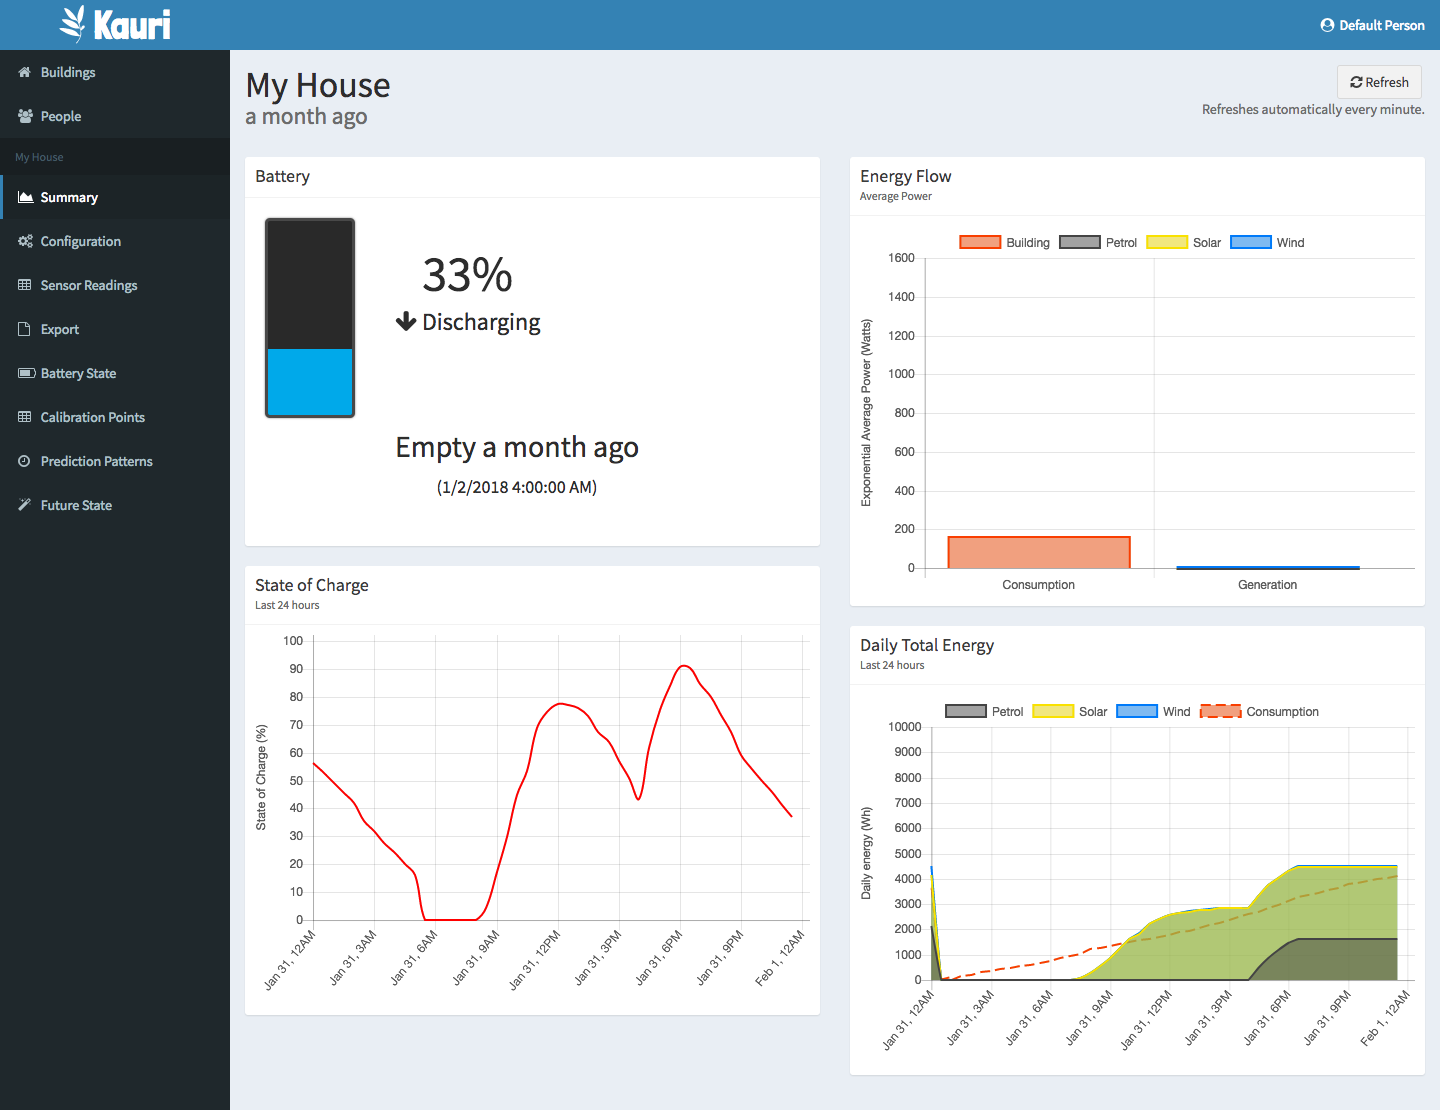
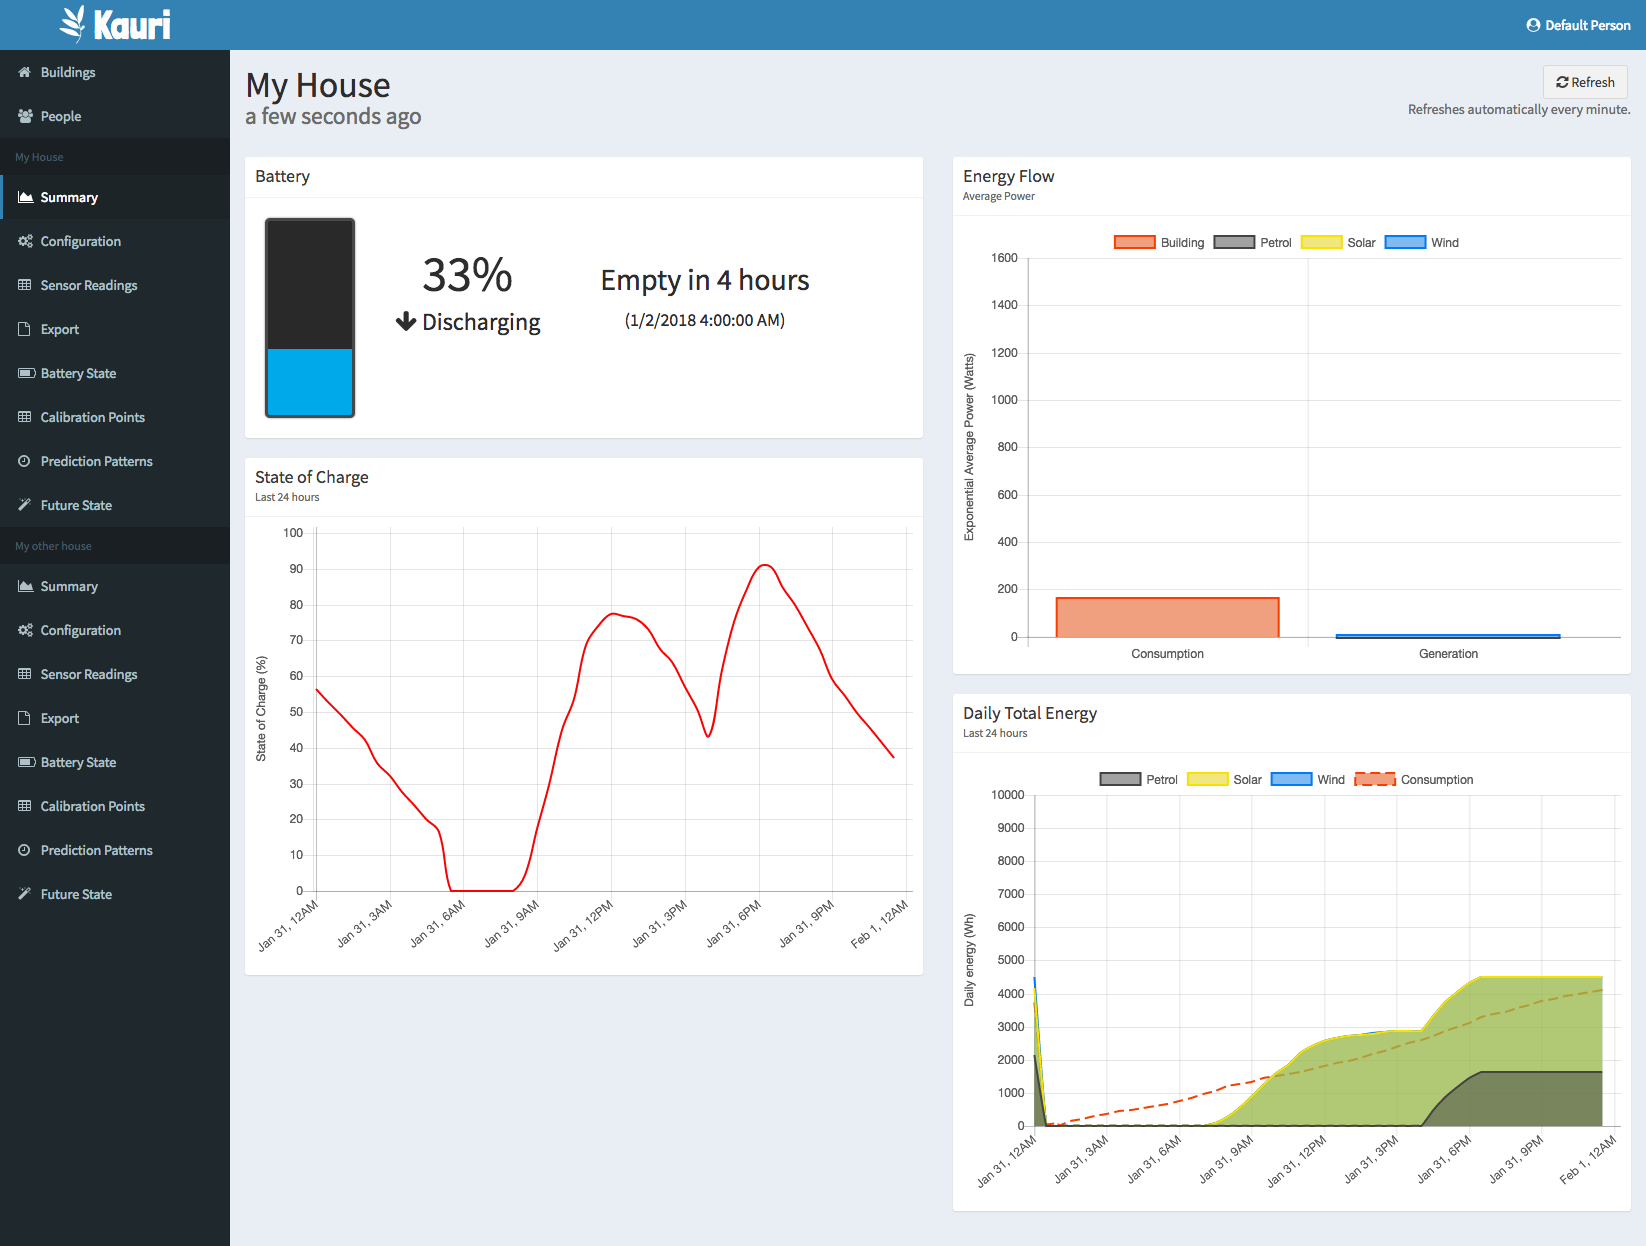
Use better Summary page screenshots and mention the battery state on the buildings page.

diff --git a/docs/getting-started.md b/docs/getting-started.md
@@ -123,3 +123,7 @@ Many of the screens shown above are really useful for when you want to drill int
 This provides a quick summary of the essential information about the state of your system.
 
 <a href="resources/summary-page.png?raw=true"><img src="resources/summary-page.png" width="800"/></a>
+
+The building page also shows the battery state of all your buildings:
+
+<a href="resources/buildings-page-with-two-buildings.png?raw=true"><img src="resources/buildings-page-with-two-buildings.png" width="800"/></a>
